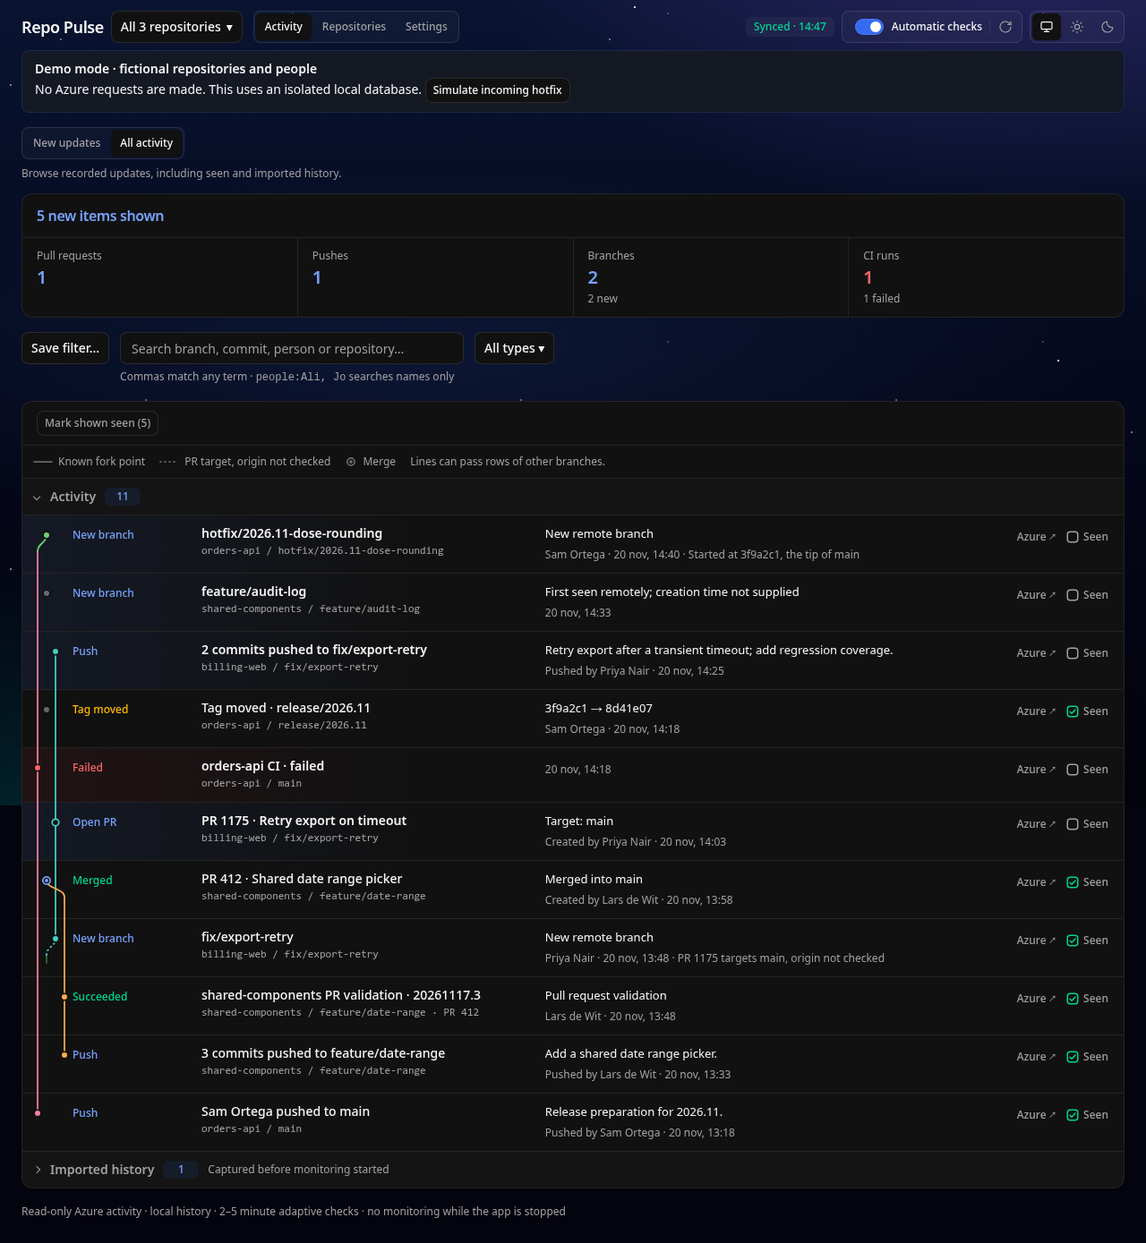
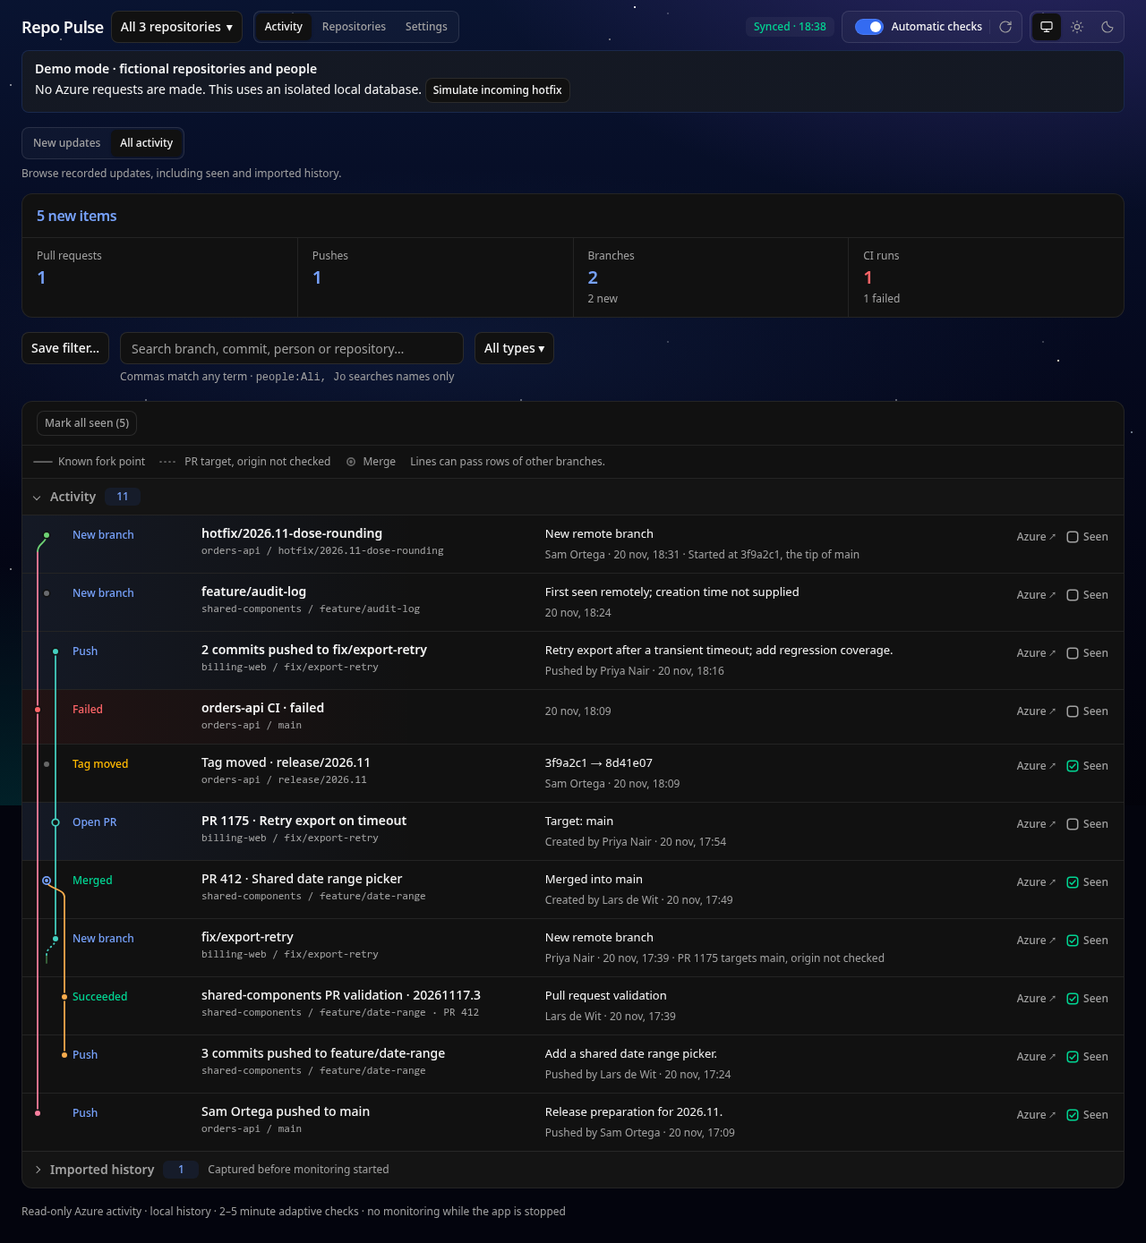
Drop Mark shown seen so Mark all seen is the one bulk action
In New updates it duplicated Mark all seen whenever every unread row was shown, and
with more rows it marked a page that the next rows then replaced. Mark all seen now
marks at once when nothing is below the rows shown and confirms otherwise. Tests that
used the shown button for batching, failures, Undo and races use Mark all seen; the
DOM-derived race test goes, since the page snapshot covers that race. README,
COVERAGE and the README screenshots match.

Changed region(s): [[0.1875, 0.5572, 0.3125, 0.6501], [0.4688, 0.5572, 0.5625, 0.6501], [0.0625, 0.5572, 0.0938, 0.6192]]

diff --git a/e2e/history.test.js b/e2e/history.test.js
@@ -217,7 +217,7 @@ for (const undo of [false, true]) {
     }));
     runtime.store.insertEvents(events);
     await page.goto(runtime.url + '/#activity/new');
-    const mark = page.getByRole('button', { name: 'Mark shown seen (251)', exact: true });
+    const mark = page.getByRole('button', { name: 'Mark all seen (251)', exact: true });
     const undoButton = page.getByRole('button', { name: 'Undo', exact: true });
     if (undo) {
       await mark.click();
@@ -246,60 +246,6 @@ for (const undo of [false, true]) {
     assert.ok(events.every(event => !runtime.store.getEvent(event.id).seen));
   });
 }
-
-test('mark shown acknowledges the rendered page even when the saved-filter picker defers a redraw', async t => {
-  const { runtime, page } = await demo(t);
-  runtime.store.acknowledge(runtime.store.listEvents().map(event => event.id));
-  runtime.store.setSetting('savedActivityFilters', [
-    { id: 'pushes', name: 'Pushes', filters: { view: 'new', search: '', kind: 'push', repoIds: null, people: '' } },
-  ]);
-  const batch = (prefix, offset, size) =>
-    Array.from({ length: size }, (_, index) => ({
-      id: `${prefix}-${index}`,
-      repoId: 'demo-orders',
-      kind: 'push',
-      title: `${prefix} push ${index}`,
-      time: new Date(Date.now() + offset + index).toISOString(),
-    }));
-  const original = batch('shown', 0, 50);
-  runtime.store.insertEvents(original);
-  await page.goto(runtime.url + '/#activity/new');
-  const shown = page.getByRole('button', { name: 'Mark shown seen (50)', exact: true });
-  await expect(shown).toBeEnabled();
-  await shown.focus();
-  const polled = page.waitForResponse(response => response.url().includes('/api/activity?') && response.ok());
-  runtime.store.insertEvents(batch('recent', 60000, 51));
-  await page.evaluate(() => window.dispatchEvent(new Event('focus')));
-  await polled;
-  await page.evaluate(() => new Promise(resolve => requestAnimationFrame(() => requestAnimationFrame(resolve))));
-  await expect(page.locator('li[data-event-id^="shown-"]')).toHaveCount(50);
-  const captured = Promise.withResolvers();
-  const release = Promise.withResolvers();
-  await page.route(
-    '**/api/ack',
-    async route => {
-      const response = await route.fetch();
-      captured.resolve(route.request().postDataJSON());
-      await release.promise;
-      await route.fulfill({ response });
-    },
-    { times: 1 },
-  );
-  try {
-    await shown.click();
-    const ack = await captured.promise;
-    assert.deepEqual(new Set(ack.ids), new Set(original.map(event => event.id)));
-    await page.getByRole('button', { name: 'Saved filters', exact: true }).click();
-    await expect(page.getByRole('listbox', { name: 'Saved filters' })).toBeVisible();
-    release.resolve();
-    await expect(page.getByText('50 updates marked seen.')).toBeVisible();
-    await expect(page.locator('li[data-event-id^="shown-"]')).toHaveCount(0);
-    await expect(page.locator('li[data-event-id^="recent-"]')).toHaveCount(50);
-    assert.equal(runtime.store.getEvent('recent-0').seen, false);
-  } finally {
-    release.resolve();
-  }
-});
 
 test('paged query reset follows type and repository scope without acknowledging hidden history', async t => {
   const { runtime, page } = await demo(t);
@@ -352,8 +298,8 @@ test('one long build history keeps every constituent and acknowledges explicit b
     },
     { times: 1 },
   );
-  await page.getByRole('button', { name: 'Mark shown seen (1050)', exact: true }).click();
-  await expect(page.getByRole('button', { name: 'Mark shown seen (1)', exact: true })).toBeVisible();
+  await page.getByRole('button', { name: 'Mark all seen (1050)', exact: true }).click();
+  await expect(page.getByRole('button', { name: 'Mark all seen (1)', exact: true })).toBeVisible();
   assert.deepEqual(
     batches.map(batch => batch.ids.length),
     [250, 250, 250, 250, 50],
@@ -366,7 +312,7 @@ test('one long build history keeps every constituent and acknowledges explicit b
   assert.equal(runtime.store.getEvent('long-build-0').seen, true);
   assert.equal(runtime.store.getEvent('long-build-late').seen, false);
   await page.getByRole('button', { name: 'Undo', exact: true }).click();
-  await expect(page.getByRole('button', { name: 'Mark shown seen (1051)', exact: true })).toBeVisible();
+  await expect(page.getByRole('button', { name: 'Mark all seen (1051)', exact: true })).toBeVisible();
 });
 
 test('repository history import scopes the confirmed range and keeps progress visible through polls', async t => {
@@ -583,7 +529,7 @@ test('seen feedback waits for its refresh when a background poll is in flight', 
     await page.evaluate(() => window.dispatchEvent(new Event('focus')));
     await started.promise;
     const ack = page.waitForResponse(response => response.url().endsWith('/api/ack'));
-    await page.getByRole('button', { name: /^Mark shown seen/ }).click();
+    await page.getByRole('button', { name: /^Mark all seen/ }).click();
     await ack;
     await expect(page.getByRole('dialog')).not.toBeVisible();
     await page.evaluate(() => new Promise(resolve => requestAnimationFrame(() => requestAnimationFrame(resolve))));
@@ -592,7 +538,7 @@ test('seen feedback waits for its refresh when a background poll is in flight', 
     release.resolve();
   }
   await expect(page.locator('#toast')).toContainText('marked seen');
-  await expect(page.getByRole('button', { name: 'Mark shown seen (0)' })).toBeDisabled();
+  await expect(page.locator('.feed-actions button')).toHaveCount(0);
 });
 
 test('Repositories shows the checkout, checks on demand, and pulls only after confirmation', async t => {
@@ -800,7 +746,7 @@ test('New updates filters a grouped run by the status it shows and acknowledges 
   await toggle.click();
   await page.getByRole('option', { name: 'Succeeded', exact: true }).click();
   await expect(page.locator('li.row')).toHaveCount(1);
-  await page.getByRole('button', { name: 'Mark shown seen (1)' }).click();
+  await page.getByRole('button', { name: 'Mark all matching seen (1)', exact: true }).click();
   await expect(page.locator('li.row')).toHaveCount(0);
   assert.equal(runtime.store.getEvent('scope-running').seen, true);
   assert.equal(runtime.store.getEvent('demo-branch-1').seen, false);
@@ -1336,7 +1282,7 @@ test('People detail only acknowledges the updates that matched the originating r
   assert.equal(runtime.store.getEvent('other-build').seen, false);
 });
 
-test('marking the shown rows in New updates lowers the totals even when the next rows take their place', async t => {
+test('a New updates backlog beyond the shown rows is confirmed with its count below and then reads zero', async t => {
   const { runtime, page } = await demo(t);
   runtime.store.acknowledge(runtime.store.listEvents().map(event => event.id));
   runtime.store.insertEvents(
@@ -1353,11 +1299,13 @@ test('marking the shown rows in New updates lowers the totals even when the next
   const summary = page.getByRole('region', { name: 'Activity summary' });
   await expect(summary.locator('.headline b')).toHaveText('150 new items');
   await expect(page.locator('[data-summary-kind="Pushes"] .val')).toHaveText('150');
-  await page.getByRole('button', { name: 'Mark shown seen (50)', exact: true }).click();
-  await expect(page.getByText('50 updates marked seen.')).toBeVisible();
-  await expect(summary.locator('.headline b')).toHaveText('100 new items');
-  await expect(page.locator('[data-summary-kind="Pushes"] .val')).toHaveText('100');
-  await expect(page.locator('li[data-event-id^="backlog-"]')).toHaveCount(50);
+  await page.getByRole('button', { name: 'Mark all seen (150)', exact: true }).click();
+  const confirm = page.getByRole('dialog', { name: 'Mark 150 updates as seen?' });
+  await expect(confirm).toContainText('100 are below the rows shown.');
+  await confirm.getByRole('button', { name: 'Mark as seen', exact: true }).click();
+  await expect(page.getByText('150 updates marked seen.')).toBeVisible();
+  await expect(summary.locator('.headline b')).toHaveText('No new updates');
+  await expect(page.locator('[data-summary-kind="Pushes"] .val')).toHaveText('0');
 });
 
 test('after the newest rows are marked seen, one catch-up action clears the older backlog and stops at what the page showed', async t => {
@@ -1405,13 +1353,17 @@ test('after the newest rows are marked seen, one catch-up action clears the olde
   await expect(headline).toHaveText('236 new items');
 });
 
-test('New updates leads with Mark all seen even when every unread update fits on one page', async t => {
+test('New updates offers one bulk action that clears a fully shown list without a dialog', async t => {
   const { runtime, page } = await demo(t);
   const total = runtime.store.queryActivity({ view: 'new' }).newUpdates;
   assert.ok(total > 0 && total < 50);
   await page.goto(runtime.url + '/#activity/new');
   const bar = page.locator('.feed-actions button');
-  await expect(bar.first()).toHaveText(`Mark all seen (${total})`);
-  await expect(bar.first()).toBeVisible();
-  await expect(bar.nth(1)).toHaveText(/^Mark shown seen/);
+  await expect(bar).toHaveCount(1);
+  await expect(bar).toHaveText(`Mark all seen (${total})`);
+  await bar.click();
+  await expect(page.getByText(`${total} updates marked seen.`)).toBeVisible();
+  await expect(page.getByRole('dialog')).not.toBeVisible();
+  await expect(page.getByRole('region', { name: 'Activity summary' }).locator('.headline b')).toHaveText('No new updates');
+  assert.equal(runtime.store.queryActivity({ view: 'new' }).newUpdates, 0);
 });

diff --git a/src/ui/feed.js b/src/ui/feed.js
@@ -152,5 +152,5 @@ export function renderFeed(state, ui) {
       state,
       ui,
       shown.map(repo => repo.id),
-    )}${ui.route === 'activity' ? emptyHtml : html`<button class="btn sm" type="button" data-action="ack-shown" ${unseen.length ? emptyHtml : html`disabled`}>Mark shown seen (${unseen.reduce((sum, record) => sum + record.unseenIds.length, 0)})</button>`}</div>${ui.route === 'activity' && records.length ? treeLegend : emptyHtml}${records.length ? content : html`<div class="empty"><p class="big">${state.activity?.loading ? 'Loading activity…' : state.activity?.error ? 'Activity could not load' : emptyMessage}</p><p class="dim">${state.activity?.error ? state.activity.error : state.activity?.loading ? 'Reading your locally stored history.' : partial ? 'This does not confirm that nothing changed. Check repository status.' : 'Use All activity to browse history, or adjust your filters.'}</p>${state.activity?.error ? html`<button class="btn sm" type="button" data-action="retry-activity">Try again</button>` : emptyHtml}</div>`}${state.activity?.nextCursor ? html`<div class="foot"><button class="btn" type="button" data-action="load-more-activity">Load more</button><span>Showing ${records.length} of ${state.activity.total} recorded items.</span></div>` : emptyHtml}</section>`;
+    )}</div>${ui.route === 'activity' && records.length ? treeLegend : emptyHtml}${records.length ? content : html`<div class="empty"><p class="big">${state.activity?.loading ? 'Loading activity…' : state.activity?.error ? 'Activity could not load' : emptyMessage}</p><p class="dim">${state.activity?.error ? state.activity.error : state.activity?.loading ? 'Reading your locally stored history.' : partial ? 'This does not confirm that nothing changed. Check repository status.' : 'Use All activity to browse history, or adjust your filters.'}</p>${state.activity?.error ? html`<button class="btn sm" type="button" data-action="retry-activity">Try again</button>` : emptyHtml}</div>`}${state.activity?.nextCursor ? html`<div class="foot"><button class="btn" type="button" data-action="load-more-activity">Load more</button><span>Showing ${records.length} of ${state.activity.total} recorded items.</span></div>` : emptyHtml}</section>`;
 }

diff --git a/e2e/ui.test.js b/e2e/ui.test.js
@@ -174,9 +174,9 @@ test('repo subset acknowledgement preserves hidden/incoming events and survives 
     },
     { times: 1 },
   );
-  await page.getByRole('button', { name: 'Mark shown seen (2)', exact: true }).click();
+  await page.getByRole('button', { name: 'Mark all matching seen (2)', exact: true }).click();
   await expect(page.getByRole('dialog')).not.toBeVisible();
-  await expect(page.getByRole('button', { name: 'Mark shown seen (0)', exact: true })).toBeDisabled();
+  await expect(page.locator('.feed-actions button')).toHaveCount(0);
   assert.ok(
     app.runtime.store
       .listEvents()
@@ -787,7 +787,7 @@ test('build transitions group into one item and exact acknowledgement leaves a l
     },
     { times: 1 },
   );
-  await page.getByRole('button', { name: 'Mark shown seen (2)', exact: true }).click();
+  await page.getByRole('button', { name: 'Mark all seen (2)', exact: true }).click();
   await expect(page.locator('li.row .kind')).toHaveText('Succeeded');
   assert.equal(runtime.store.listEvents().find(item => item.id === 'build-queued').seen, true);
   assert.equal(runtime.store.listEvents().find(item => item.id === 'build-running').seen, true);
@@ -800,8 +800,8 @@ test('build transitions group into one item and exact acknowledgement leaves a l
 test('filtered group marks only shown matching updates while the hidden transition stays unseen', async t => {
   const { page, runtime } = await groupedFixture(t);
   await page.getByRole('searchbox', { name: 'Search activity' }).fill('Running');
-  await page.getByRole('button', { name: 'Mark shown seen (1)', exact: true }).click();
-  await expect(page.getByRole('button', { name: 'Mark shown seen (0)', exact: true })).toBeDisabled();
+  await page.getByRole('button', { name: 'Mark all matching seen (1)', exact: true }).click();
+  await expect(page.locator('.feed-actions button')).toHaveCount(0);
   assert.equal(runtime.store.listEvents().find(item => item.id === 'build-running').seen, true);
   assert.equal(runtime.store.listEvents().find(item => item.id === 'build-queued').seen, false);
 });

diff --git a/src/ui/browser-view.js b/src/ui/browser-view.js
@@ -62,9 +62,9 @@ function focusedControlId(element) {
 /**
  * `syncLive` sits outside the header so re-rendering the header never replaces it.
  * @param {{ page: HTMLElement, header: HTMLElement, demo: HTMLElement, syncLive: HTMLElement, picker: { mount: (element: HTMLElement | null) => void },
- *   toolbarMenus: Record<string, { mount: (element: HTMLElement | null) => void }>, onPageRendered: () => void }} options
+ *   toolbarMenus: Record<string, { mount: (element: HTMLElement | null) => void }> }} options
  */
-export function createBrowserView({ page, header, demo, syncLive, picker, toolbarMenus, onPageRendered }) {
+export function createBrowserView({ page, header, demo, syncLive, picker, toolbarMenus }) {
   const groupElements = () => [...page.querySelectorAll('details[data-group]')].filter(element => element instanceof HTMLDetailsElement);
   /** @param {string} selector */
   const shown = selector => {
@@ -122,7 +122,6 @@ export function createBrowserView({ page, header, demo, syncLive, picker, toolba
       const replacement = restoreFocus(focusId, neighbours);
       if (selection && replacement instanceof HTMLInputElement) replacement.setSelectionRange(...selection);
     }
-    onPageRendered();
     // web/theme.js defines repoPulseTheme on window before the modules load; the optional call covers its absence.
     /** @type {ThemedWindow} */ (window).repoPulseTheme?.apply();
     if (checkoutFocus) {

diff --git a/src/web.js b/src/web.js
@@ -136,7 +136,6 @@ const view = createBrowserView({
   syncLive: required('#sync-live'),
   picker,
   toolbarMenus: { '.type-menu': typeFilter, '.saved-filter-menu': savedFilterPicker, '.saved-filter-actions': savedFilterActions },
-  onPageRendered: seen.updateShownCount,
 });
 const checkoutPanel = createCheckoutPanel({
   page,
@@ -459,9 +458,11 @@ const actions = {
     }
     const shown = new Set(seen.shownUnseenIds());
     const below = ids.filter(id => !shown.has(id)).length;
+    // Everything it would mark is on screen, so there is nothing to preview; Undo covers a slip.
+    if (!below) return seen.acknowledge(ids, true);
     confirm(
       `Mark ${ids.length} update${ids.length === 1 ? '' : 's'} as seen?`,
-      `${below ? `${below} ${below === 1 ? 'is' : 'are'} below the rows shown. ` : ''}Updates recorded after this page loaded stay unread.`,
+      `${below} ${below === 1 ? 'is' : 'are'} below the rows shown. Updates recorded after this page loaded stay unread.`,
       () => seen.acknowledge(ids, true),
       'Mark as seen',
       { subject: scope },
@@ -705,7 +706,6 @@ document.addEventListener('change', event => {
   }
 });
 
-page.addEventListener('toggle', seen.updateShownCount, true);
 dialog.addEventListener('cancel', event => {
   event.preventDefault();
   closeDialog();

diff --git a/src/ui/seen-actions.js b/src/ui/seen-actions.js
@@ -91,23 +91,11 @@ export function createSeenActions({ page, request, reload, toast }) {
   return {
     acknowledge,
     shownUnseenIds: () => shownUnseenIds(page),
-    updateShownCount() {
-      const button = page.querySelector('[data-action="ack-shown"]');
-      if (!(button instanceof HTMLButtonElement)) return;
-      const count = shownUnseenIds(page).length;
-      button.textContent = `Mark shown seen (${count})`;
-      button.disabled = count === 0;
-    },
     /** @type {Record<string, Action>} */
     actions: {
       'ack-item': element => {
         const ids = eventIds(element);
         if (ids.length) return acknowledge(ids, element.dataset.markSeen === 'true');
-      },
-      'ack-shown': () => {
-        const ids = shownUnseenIds(page);
-        if (!ids.length) return;
-        return acknowledge(ids, true);
       },
       'undo-ack': async () => {
         if (undoIds.length) await acknowledge(undoIds, false, { undo: true });

diff --git a/README.md b/README.md
@@ -38,7 +38,7 @@ Then start Repo Pulse and use **Settings → Check connection**. Your checkouts 
 ## Use Repo Pulse
 
 - **Activity.** Open **New updates** to catch up or **All activity** to browse cached history. Enter `Ali, Jose` in **Search activity** to match either term, including names such as Alice and José. Use `people:Ali Mor, Jose` to search recorded names with partial words in order. Opening an item never marks it seen. On wider screens, **All activity** draws a branch tree in the status column: one lane per branch, a solid fork when the commit the branch started at was the tip of, or already on, one other branch, a dotted fork to its pull request target when the origin was not checked, and a curve where a completed pull request merges. A pull request validation run shows the branch of its pull request and joins that branch's lane.
-- **Catch up.** The Activity summary counts every unread update in scope, on every page. Tick **Seen** on a row (tick it again to mark the row unread). **Mark all seen (N)**, or **Mark all matching seen (N)** with filters applied, clears every unread update the page was read with, across all pages; updates recorded after the page loaded stay unread. In **New updates**, **Mark shown seen** clears only the loaded rows in open groups. **Undo** restores the updates changed by your action.
+- **Catch up.** The Activity summary counts every unread update in scope, on every page. Tick **Seen** on a row (tick it again to mark the row unread). **Mark all seen (N)**, or **Mark all matching seen (N)** with filters applied, clears every unread update the page was read with, across all pages; updates recorded after the page loaded stay unread. It asks first when some of those updates are below the rows shown. **Undo** restores the updates changed by your action.
 - **Saved filters.** Choose **Save filter…** to save your search, activity type, repository scope, and Activity tab. Choosing a saved filter applies it immediately. Edits show **Modified** and stay in your current view until you choose **Update**. Use **More** to save a variation, restore the saved version, or manage the filter.
 - **Switch branches.** In **Repositories**, choose **Switch branch…** beside the current branch and pick one of the repository's watched branches. On an Activity detail that names one branch, choose **Switch to …**: a new branch, a push, a build, the source of an active pull request from the same repository, or a completed pull request's target (such as `main`). Repo Pulse verifies the remote and refreshes the local tracking ref before switching. It asks for confirmation if the upstream history was rewritten or the local branch has diverged. Git carries compatible local edits and stops if switching would overwrite them. After the switch, **Repositories** shows the checkout and its update controls.
 - **Repositories.** See your checked-out branch, sync older activity, or use **Check for updates**. **Pull** asks for confirmation and fast-forwards when Git can preserve your local changes.

diff --git a/docs/COVERAGE.md b/docs/COVERAGE.md
@@ -87,7 +87,7 @@ Evidence saved before deeper analysis stopped also enumerated ref ranges, becaus
   Azure history availability, permissions and successful completion of every page.
 - Polling can miss intermediate states, edits, votes or temporary entities. It cannot reconstruct
   every action that happened while the process was stopped or between successful checks.
-- Activity uses server-side grouped SQLite pages, including older unseen records. Stable cursors exclude concurrent inserts. **Mark shown seen** acknowledges the unread IDs rendered in open groups. **Mark all matching as seen** previews the exact matching unread IDs across pages and submits that snapshot on confirmation. Deep links resolve outside the first page.
+- Activity uses server-side grouped SQLite pages, including older unseen records. Stable cursors exclude concurrent inserts. **Mark all seen** (**Mark all matching seen** with filters) collects the matching unread IDs across pages up to the snapshot the page was read at. It confirms when some are below the rendered rows, and otherwise marks them at once. Deep links resolve outside the first page.
 - The browser polls local metadata and reloads the Activity window when its revision changes. Activity filters include types, statuses, and completed PR links from matching cached history, including items beyond the loaded page. Status filters match the displayed group after search and repository scope are applied. Manual refresh, navigation, and pagination can still request pages explicitly.
 - Existing raw events remain immutable. Supplemental merge metadata preserves event identity, time and seen/imported flags, and creates no metadata-only notification. A schema migration removed the merge-analysis queue and marks evidence it left unfinished as incomplete. A later one deletes the commits and commit-to-PR lookups that analysis cached, then compacts the database file.
 - Explicit 30/90-day or all-available-since-2010 import persists one bounded page at a time. Historical imports stop at the monitoring baseline and never rewind live checkpoints. Completed means requested pages succeeded, not universal source retention. Different ranges wait until the active import completes.

diff --git a/docs/DROP-MARK-SHOWN-PLAN.md b/docs/DROP-MARK-SHOWN-PLAN.md
@@ -1,0 +1,26 @@
+# Drop Mark shown seen plan
+
+Goal: one bulk action everywhere. New updates loses `Mark shown seen`; `Mark all seen (N)` (or `Mark all matching
+seen (N)`) is the only bulk action. Requested by the user on 2026-11-20 after PR #76.
+
+## Decisions
+
+- D1 Remove the `Mark shown seen` button, its `ack-shown` action and its live label update. Keep the per-row Seen
+  toggle and Undo unchanged.
+- D2 `Mark all seen` skips the confirmation when every update it would mark is on screen (none below the shown rows),
+  so a short New updates list clears in one click, as `Mark shown seen` did. When some are below the shown rows it
+  still confirms and says how many. Undo covers both.
+- D3 Tests that used `Mark shown seen` to exercise shared behaviour (250-ID batches, partial failure, Undo retry,
+  arrivals during a write, filtered group members, held state refresh) move to `Mark all seen`. The test of a
+  DOM-derived ID race that only `Mark shown seen` had is removed, because the snapshot (`through`) now covers that race
+  and has its own test.
+- D4 README and docs/COVERAGE.md describe one bulk action; the README screenshots are regenerated (they still show the
+  pre-#76 summary and button).
+
+## Steps
+
+- [x] S1 e2e: New updates has no `Mark shown seen`; with every unread update on screen, `Mark all seen (N)` marks them
+  without a dialog. Watched failing first.
+- [x] S2 Remove the button and action (D1) and skip the dialog when nothing is below (D2).
+- [x] S3 Migrate the existing tests (D3); full checks pass.
+- [x] S4 README, docs/COVERAGE.md and both README screenshots updated and reviewed.
